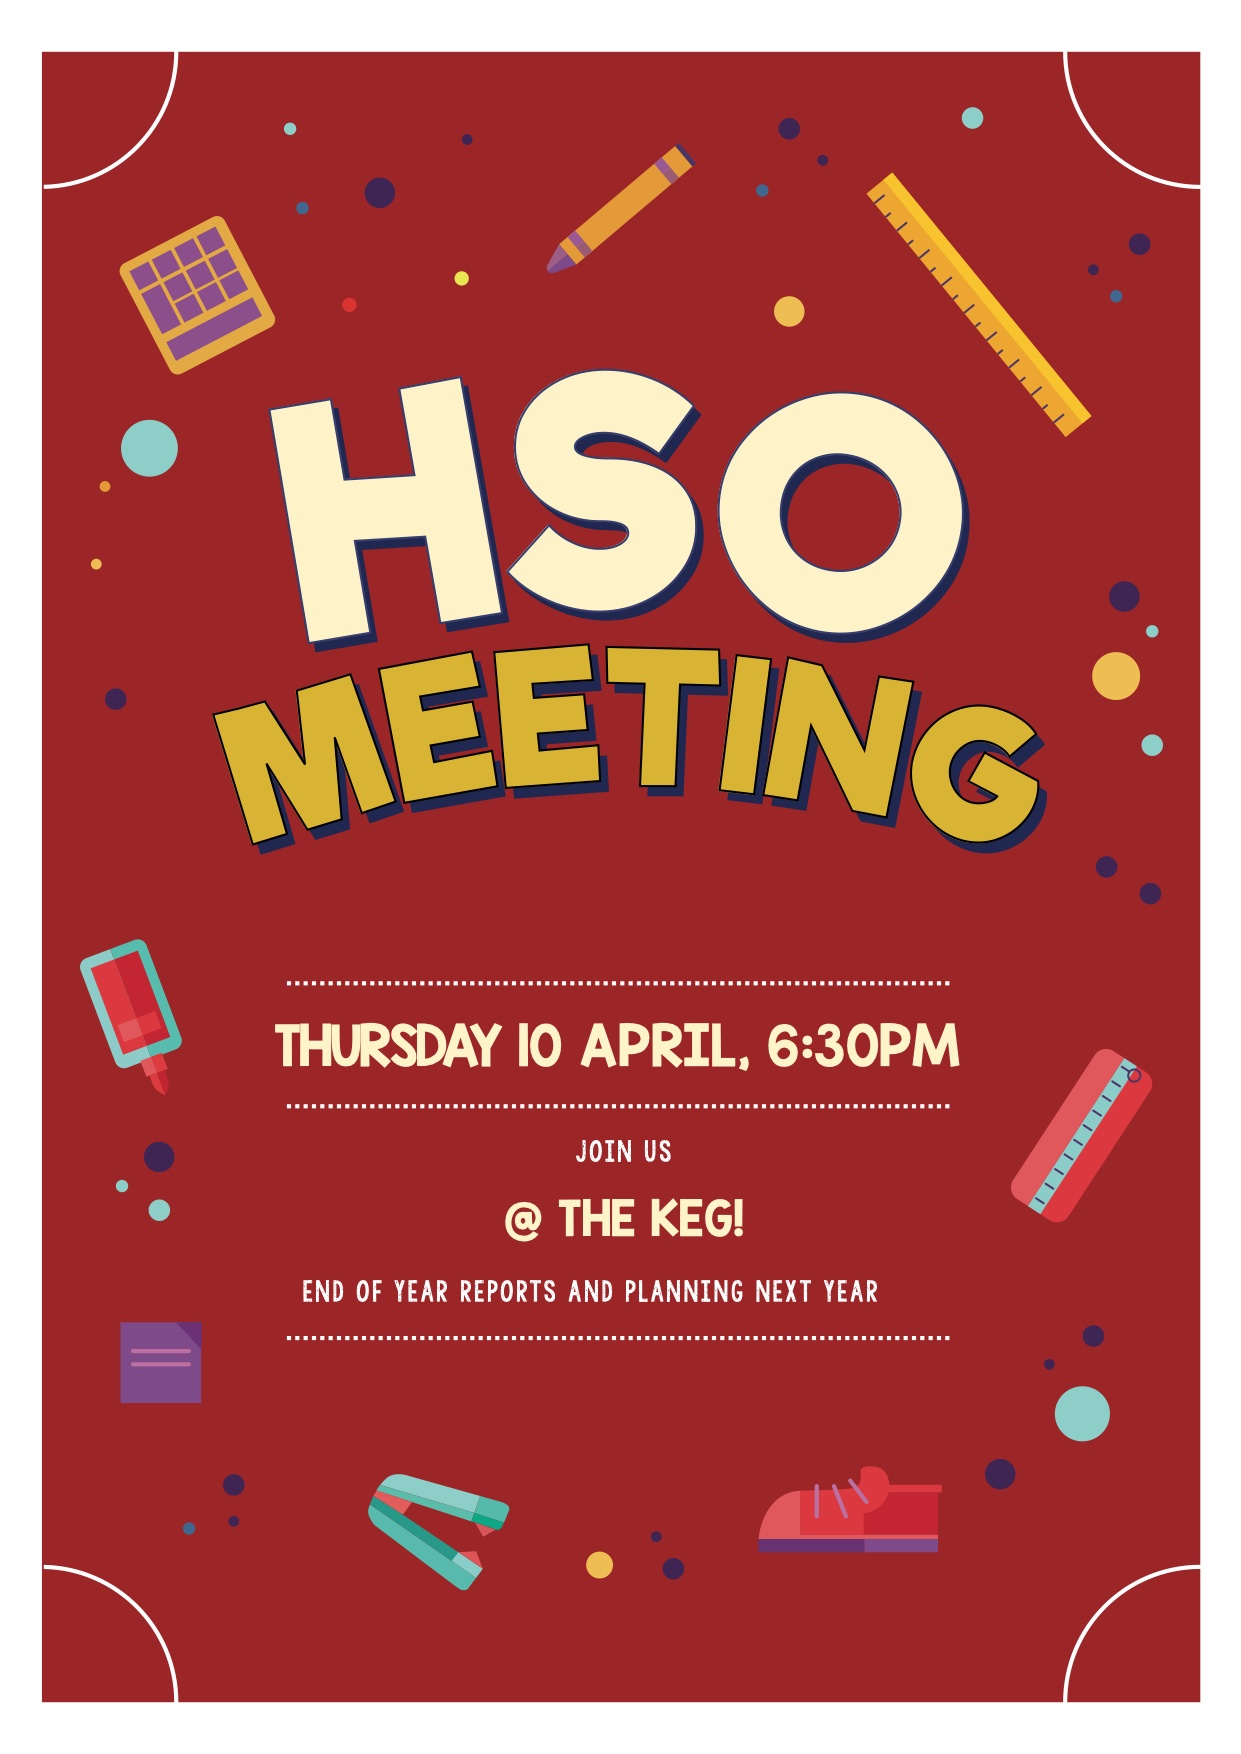
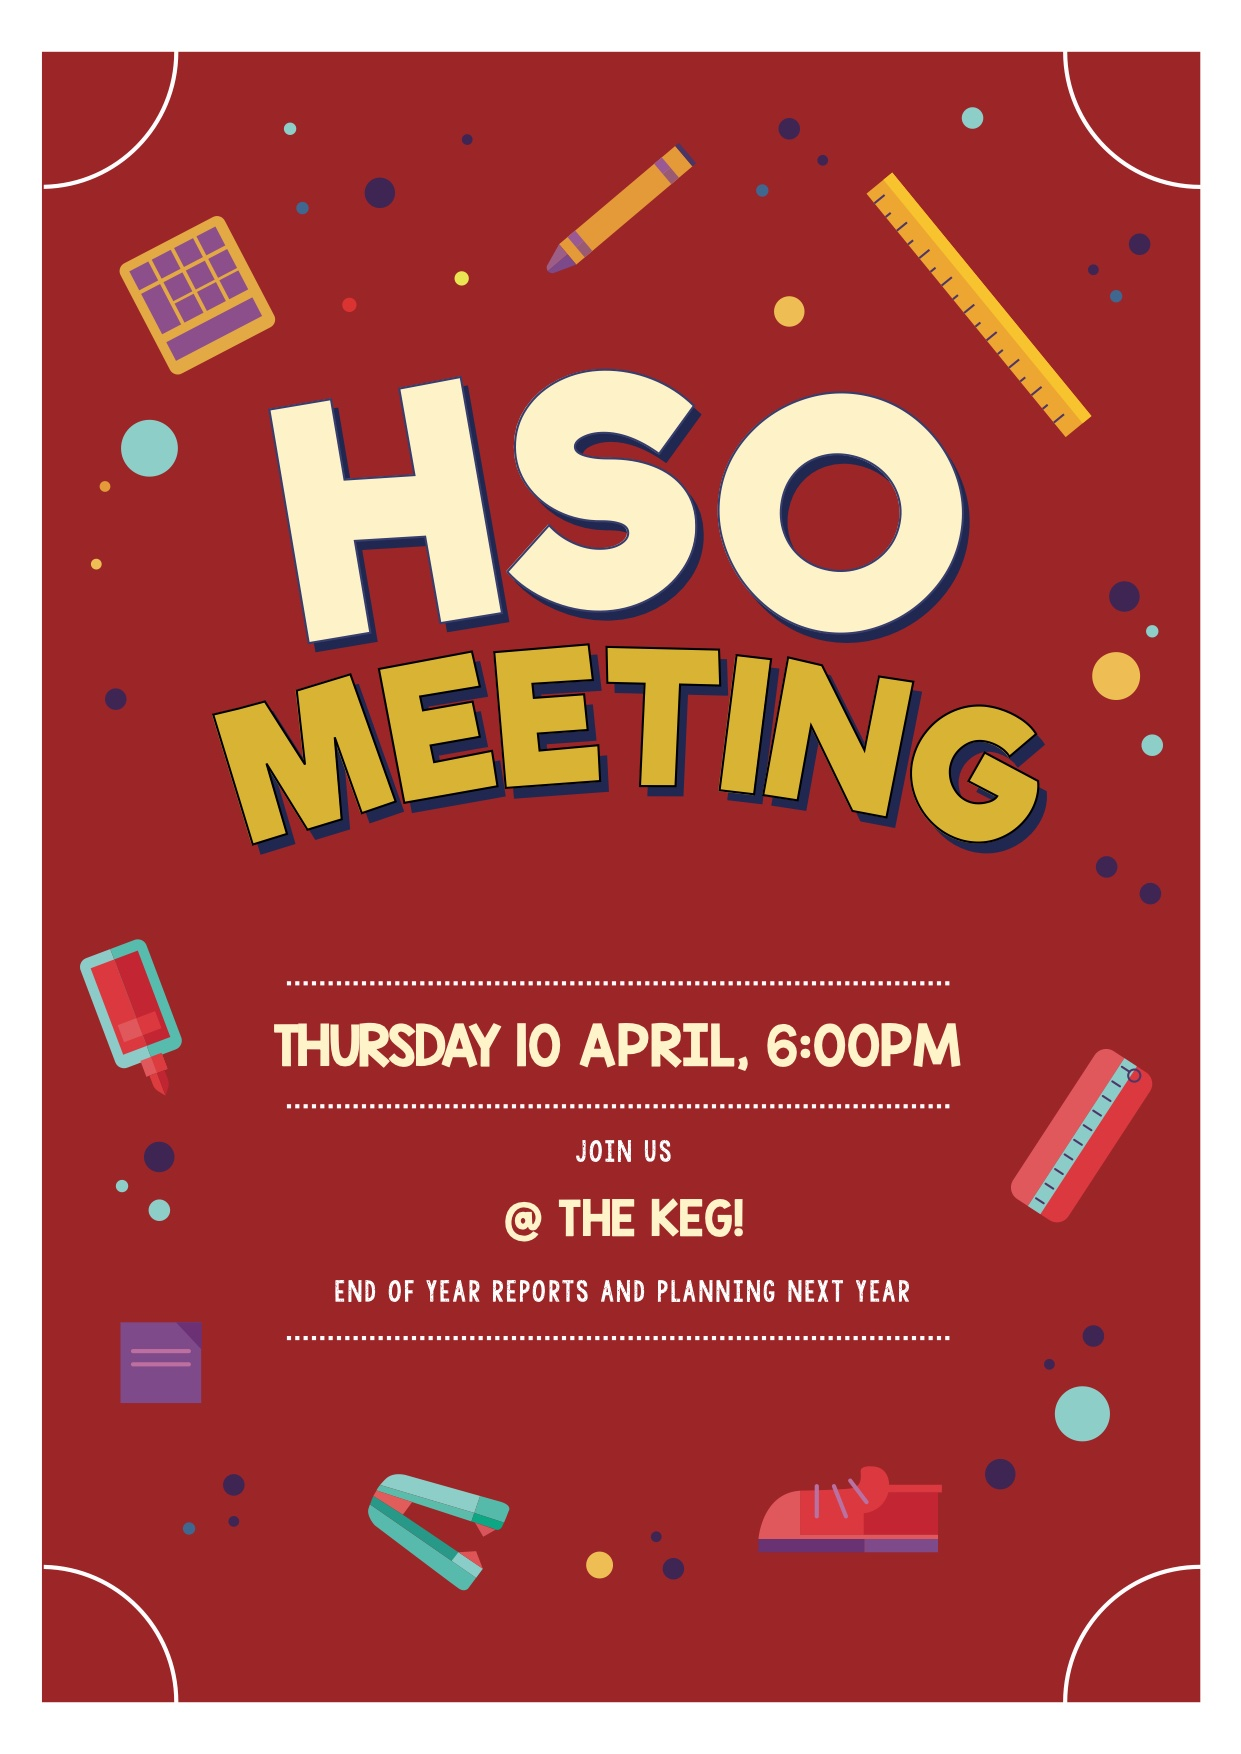
time change

diff --git a/content/events/meeting4.md b/content/events/meeting4.md
@@ -3,7 +3,7 @@ page_status: active
 title: 4th HSO Meeting 🗓
 description: Our fourth meeting of the year to set goals for the next school year.
 type: events
-event_date: 2025-04-10 6:30:00 +0000
+event_date: 2025-04-10 6:00:00 +0000
 url: "/meetings/04102025"
 fullUrl: "https://colwichhso.com/meetings/04102025"
 pageImage: "https://colwichhso.com/images/flyers/HSOMeetingOpenGraph.jpg"
